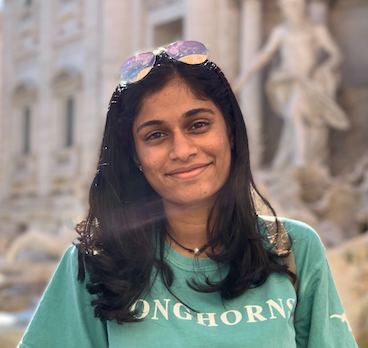
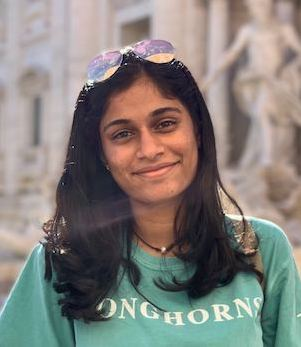
Brute force just gonna have to do

diff --git a/team.html b/team.html
@@ -56,9 +56,10 @@ title: The Team
       <div class="col-md-4">
         <div class="card mb-4 box-shadow">
           <img
-            class="assets/css/card-img-top"
+            class="card-img-top"
             src="assets/img/Ganti.jpg"
             alt="Headshot"
+            height="300px"
           />
           <div class="card-body">
             <p class="card-name">Srikar Ganti</p>

diff --git a/assets/css/uav.css b/assets/css/uav.css
@@ -334,9 +334,3 @@ h2 {
 .bd-footer-links li + li {
   margin-left: 1rem;
 }
-
-.card-img-top {
-  width: 100%;
-  height: 15vw;
-  object-fit: cover;
-}
